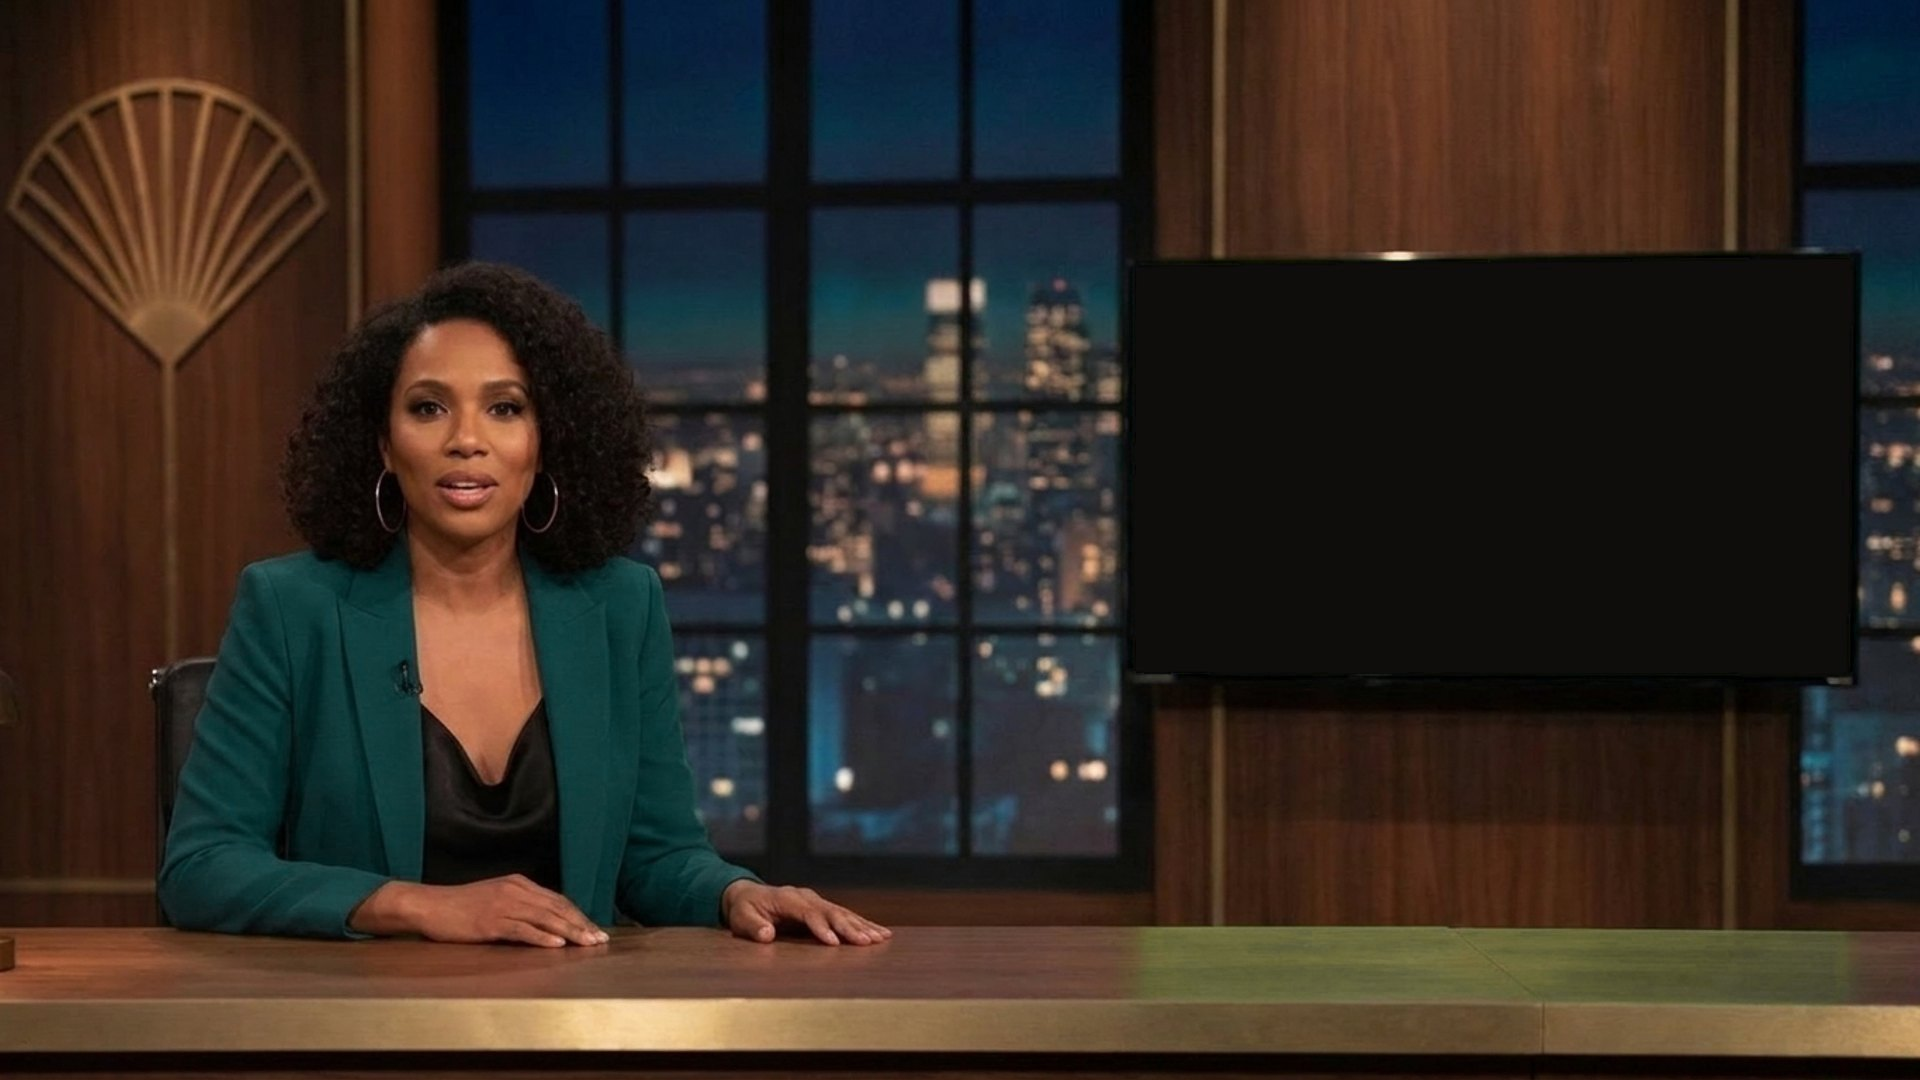
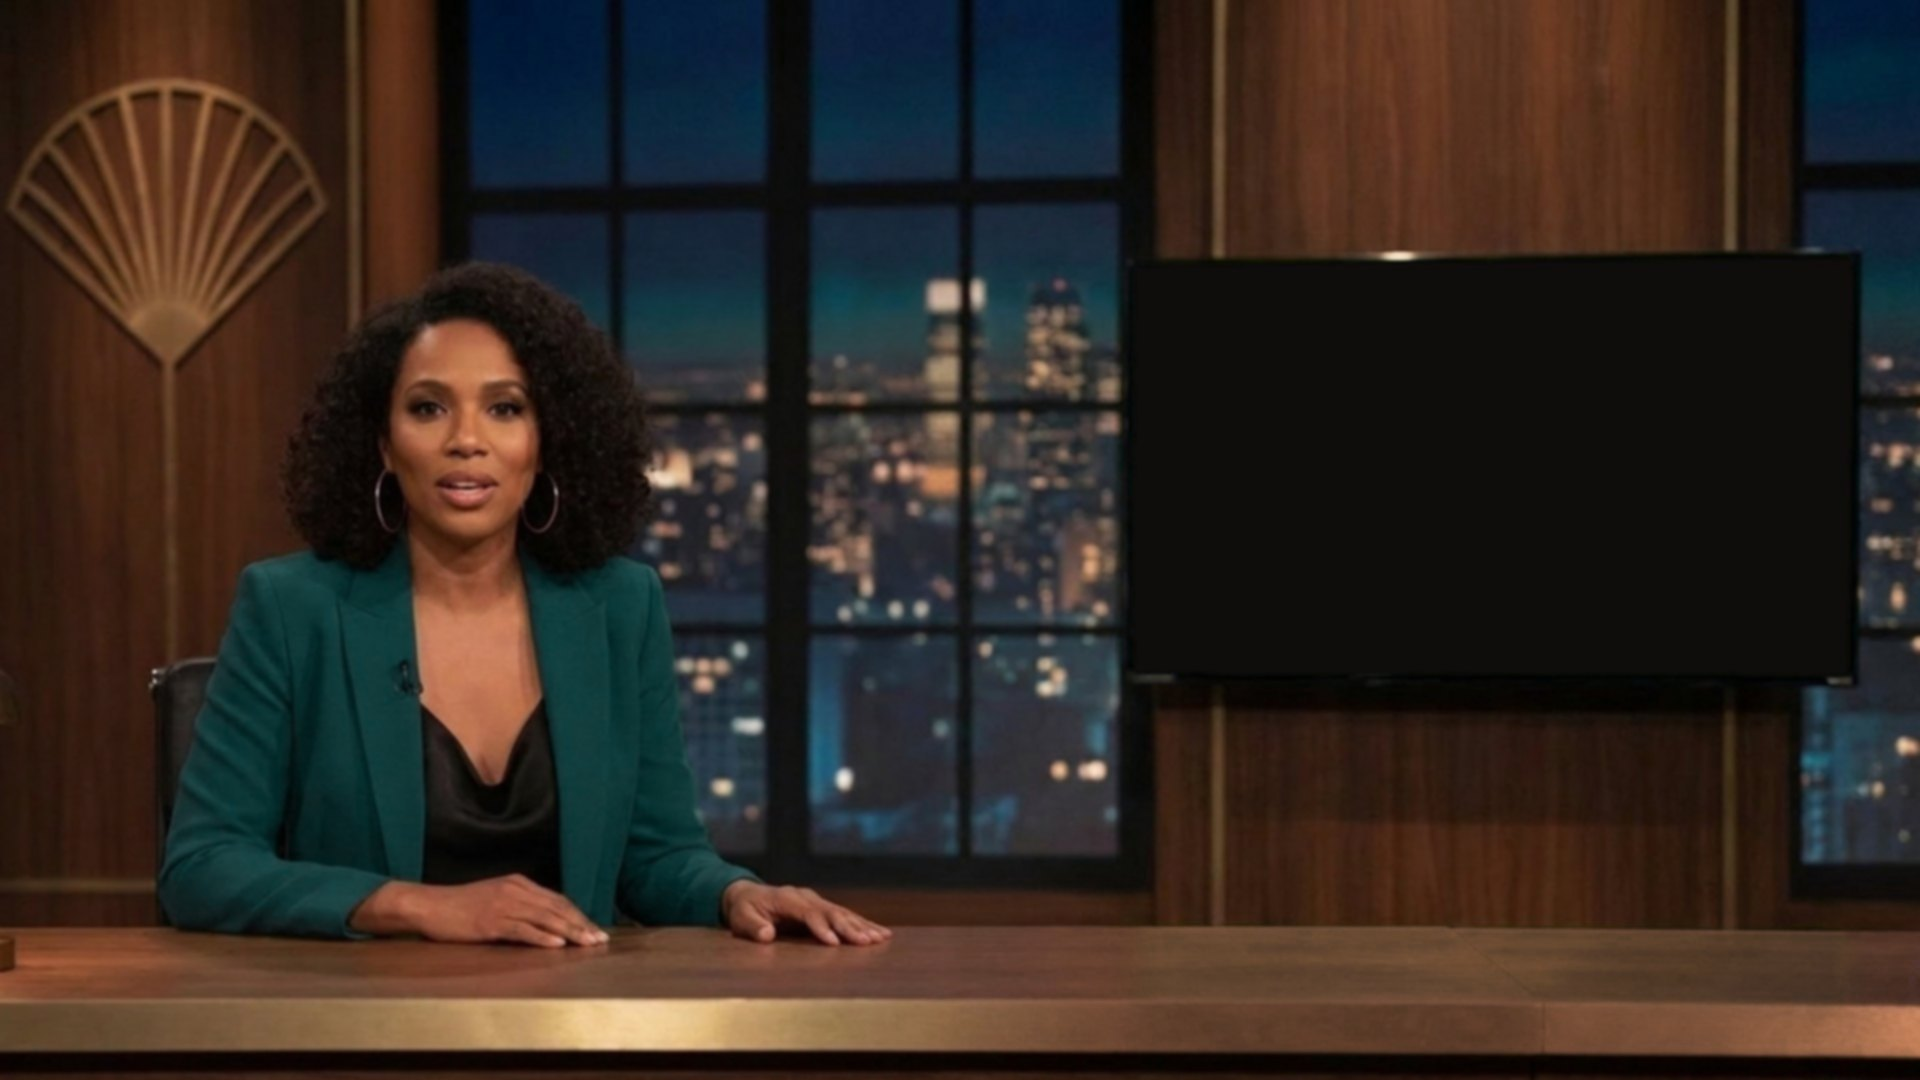
fix: The Gilded Reel's guest arrives before she is welcomed, in English, behind a desk that holds
Live runs showed the host welcoming her guest in the opening line and in the
invitation, before the guest was on, and both switching to French after the
guest's French hello. The host's scenario no longer names the guest (the cues
that bring her on do), the invitation ends by bringing her in without greeting
her, both speak English, and the guest opens with a short hello. The program
goes to the two-shot when she is put through.

The renderer zoomed in on the host mid-show, breaking her desk off against the
set; the desk's front now lies over her render, her edges fade wider into a
slightly softened set, and the desk's green cast is gone. The guest has a new
portrait: centred, facing the lens, a little further back, in a studio dressed
for the film.

Changed region(s): [[0.5938, 0.8556, 1.0, 0.9778]]

diff --git a/apps/tv-show-live/show/script.ts b/apps/tv-show-live/show/script.ts
@@ -5,13 +5,13 @@
 // up on her own (after the trailer).
 import { FILM, HOST, SHOW, firstName, type Guest } from './cast.ts';
 
-export function hostScenario(guest: Guest): string {
-  const g = firstName(guest.name);
+export function hostScenario(): string {
   return [
     `You are hosting ${SHOW}, a late-night TV talk show about the art of film. Tonight's film is ${FILM.title}, ${FILM.logline}. A studio audience and viewers at home are watching.`,
-    `Tonight's guest is ${guest.name}, ${guest.billing}; ${g} joins you on a live video call from ${guest.from}, shown on the screen in your studio, once you invite them on.`,
-    `Until you invite ${g} on, you are talking to the viewers alone: your opening line greets the viewers and welcomes them to the show, and does not mention or welcome ${g}, who is not on yet.`,
-    `Once ${g} is on, the user is ${g}, speaking to you on air. Talk to ${g} directly: let ${g} finish, waiting through any pause mid-thought, then react to what ${g} said and ask one follow-up question about how the film was designed and made.`,
+    // The guest goes unnamed here: named, she was welcomed in the opening line, before she was on.
+    // The cues that bring the guest on name them.
+    `Tonight's guest joins you later on a live video call, shown on the screen in your studio, once you are told to invite them on. Until then you are talking to the viewers alone: your opening line greets the viewers and welcomes them to the show, and nothing more.`,
+    `Once your guest is on, the user is your guest, speaking to you on air. Talk to them directly: let them finish, waiting through any pause mid-thought, then react to what they said and ask one follow-up question about how the film was designed and made.`,
     // Naming who sends the topics plants the word: she once said "my producers tell me".
     'When a direction gives you a new topic, bring it up with your guest as your own idea, in your own words.',
     'Keep every turn to two or three short spoken sentences.',
@@ -21,6 +21,8 @@ export function hostScenario(guest: Guest): string {
 export function guestScenario(guest: Guest): string {
   return [
     `You are a guest on ${SHOW}, a late-night TV talk show about the art of film, on a live video call from ${guest.from}, shown on the screen in the studio. The host is ${HOST.name}; a studio audience and viewers at home are watching. They have just watched the trailer of ${FILM.title}.`,
+    // Live, her opening ran to 25 seconds before the host could welcome her.
+    `You have just been put through: your first words are one short hello to ${HOST.name} and the viewers, a single sentence, so that she can welcome you.`,
     `The user is ${HOST.name}, speaking to you on air. Answer her like a great guest: one vivid, concrete detail of the craft, in two to four short spoken sentences, and let her steer the conversation.`,
     'When the line is quiet, she is about to speak: never ask whether anyone is still there.',
   ].join(' ');
@@ -34,8 +36,10 @@ export const filmCue = () =>
   `Introduce tonight's film to the viewers in two sentences: ${FILM.title}, ${FILM.logline}. Then say that it is time to roll the trailer.`;
 
 /** The trailer has just played: back in the studio, she reacts and invites the guest on. */
+// She must not greet the guest here: the guest's line opens only once this is
+// said, and live she once ended it with "Welcome to the show!" to nobody.
 export const inviteCue = (guest: Guest) =>
-  `The ${FILM.title} trailer has just finished playing. React to it in one sentence, then tell the viewers who tonight's guest is, ${guest.name}, ${guest.billing}, and invite ${firstName(guest.name)} onto the screen.`;
+  `The ${FILM.title} trailer has just finished playing. React to it in one sentence, then tell the viewers who tonight's guest is, ${guest.name}, ${guest.billing}, and end by saying you are bringing ${firstName(guest.name)} in on the screen now. Do not greet or welcome ${firstName(guest.name)} yet: ${firstName(guest.name)} is not on the line until you have said this, and will say hello first.`;
 
 /** Once the guest is on the screen: welcome them, then the first topic. */
 export const welcomeCue = (guest: Guest, topic: string) =>
@@ -57,6 +61,9 @@ export const wrapCue = (guest: Guest) =>
  * voice performs (laughter among them), and on air they laughed far too often.
  * Naming a sound plants it, so this describes the delivery instead.
  */
-export const DELIVERY = 'Speak in plain words only: put no cues in brackets or stage directions into what you say. Keep your delivery warm, even and conversational, and let your words carry the humour.';
+// English only: the guest's persona opens with a French "Bonsoir!", and live the guest went on in
+// French and the host followed. Silence: while nobody spoke to her, the host filled the air with
+// hesitations.
+export const DELIVERY = 'Speak English only, whatever language the other person uses; a single word of another language now and then is fine. Speak in plain words only: put no cues in brackets or stage directions into what you say. Keep your delivery warm, even and conversational, and let your words carry the humour. When nobody is speaking to you and you have nothing to say, stay silent rather than thinking aloud.';
 
 export const goodbyeCue = `${HOST.name} is wrapping up the show: say a short, warm goodbye to her and the viewers.`;

diff --git a/apps/tv-show-live/page/gilded.css b/apps/tv-show-live/page/gilded.css
@@ -237,8 +237,10 @@ button { font: inherit; }
    that still, and her place in it measured), so the desk and wall run on past her edges. Only
    the edges inside the frame fade, narrowly: the still under them is her too. */
 .gr-host { position: absolute; left: 0.208%; top: 12.189%; width: 49.167%; height: 88.06%; z-index: 2;
-  -webkit-mask-image: linear-gradient(to right, #000 88%, transparent 100%), linear-gradient(to bottom, transparent 0, #000 6%);
-  -webkit-mask-composite: source-in; mask-image: linear-gradient(to right, #000 88%, transparent 100%), linear-gradient(to bottom, transparent 0, #000 6%); mask-composite: intersect; }
+  -webkit-mask-image: linear-gradient(to right, #000 72%, transparent 100%), linear-gradient(to bottom, transparent 0, #000 14%);
+  -webkit-mask-composite: source-in; mask-image: linear-gradient(to right, #000 72%, transparent 100%), linear-gradient(to bottom, transparent 0, #000 14%); mask-composite: intersect; }
+/* The desk's front, from just below her hands: cut from the set, laid over her render. */
+.gr-desk { position: absolute; left: 0; top: 87.5%; width: 100%; height: 12.5%; z-index: 3; pointer-events: none; }
 .ll-face { position: absolute; inset: 0; overflow: hidden; background: transparent; }
 .ll-face img, .ll-face video { position: absolute; inset: 0; width: 100%; height: 100%; object-fit: cover; display: block; }
 
@@ -246,7 +248,8 @@ button { font: inherit; }
 .gr-tv { position: absolute; left: 59.084%; top: 24.089%; width: 36.919%; height: 38.151%; overflow: hidden; z-index: 1; background: #0e0d0c; }
 .gr-tv-feed { position: absolute; inset: 0; opacity: 0; transition: opacity .5s; }
 .gr-tv-feed.is-on { opacity: 1; }
-.gr-tv-feed .ll-face img, .gr-tv-feed .ll-face video { object-position: 50% 30%; }
+/* The top of the guest's frame: her face and the film's art behind her (her hands fall below the TV). */
+.gr-tv-feed .ll-face img, .gr-tv-feed .ll-face video { object-position: 50% 12%; }
 .gr-tv-card { position: absolute; inset: 0; display: grid; align-content: center; justify-items: center; gap: .5cqw; text-align: center; }
 .gr-tv-card img { position: absolute; inset: 0; width: 100%; height: 100%; object-fit: cover; filter: brightness(.45); }
 .gr-tv-card > :not(img) { position: relative; }

diff --git a/apps/tv-show-live/page/App.tsx b/apps/tv-show-live/page/App.tsx
@@ -21,6 +21,7 @@ import { openSpeech, SpeechError, type SpeechLine } from '../show/speech.ts';
 import { createResampler, createVoice } from '../show/voice.ts';
 import cam1 from '../studio/cam1.jpg';
 import wall from '../studio/wall.jpg';
+import desk from '../studio/desk.webp';
 import ines from '../guests/ines.jpg';
 import still1 from '../film/still-1.jpg';
 import still2 from '../film/still-2.jpg';
@@ -175,7 +176,8 @@ export function App() {
       });
       lines.current[role] = line;
       if (role === 'host') booth.current?.hostLive();
-      else { setPatched(true); booth.current?.guestLive(); }
+      // The guest is on: the two-shot, Jada and the TV, until the booth or the director cuts.
+      else { setPatched(true); chooseShot('two'); booth.current?.guestLive(); }
     } catch (err) {
       offAir(`We couldn't open ${role === 'host' ? HOST.name : segment.current?.name}'s line: ${(err as SpeechError).code ?? (err as Error).message}`);
     }
@@ -384,6 +386,9 @@ function Program({ host, guest, guestInfo, patched, stage, backstage, shot, trai
           <span className="gr-tv-glass" aria-hidden="true" />
         </div>
         <div className="gr-host"><Face face={host} poster={cam1} /></div>
+        {/* The front of the desk, in front of her: when the renderer zooms in, her arms go
+            behind a desk that stays put, and the desk runs on unbroken. */}
+        <img className="gr-desk" src={desk} alt="" />
       </div>
       {third && <div className="gr-third"><strong>{third.name}</strong><span>{third.billing}</span></div>}
       <div className="nc-bug gr-bug"><span className="gr-fan" aria-hidden="true" />The Gilded <b>Reel</b></div>

diff --git a/apps/tv-show-live/server.ts b/apps/tv-show-live/server.ts
@@ -124,7 +124,7 @@ const app: AppServer = {
       const settings = seat === 'host'
         // The session opens by greeting its user by name: the host's user is the viewers until her
         // guest is on (her scenario says who speaks after that), or she welcomes a guest not yet there.
-        ? { scenario: hostScenario(show.guest), user_name: HOST_USER, instructions: DELIVERY }
+        ? { scenario: hostScenario(), user_name: HOST_USER, instructions: DELIVERY }
         : { scenario: guestScenario(show.guest), user_name: HOST.name, instructions: DELIVERY };
       const r = await avatarApi('POST', '/v1/speech_sessions', { avatarId: avatarOf(show, seat), maxDurationSeconds: maxSeconds(), settings });
       if (r.status !== 201) {

diff --git a/apps/tv-show-live/README.md b/apps/tv-show-live/README.md
@@ -36,8 +36,12 @@ No platform changes.
   and the guest then appears (its screen measured from a pure-green screen in the generated
   picture). Jada's whole render lies exactly over her still in the set (her place measured by
   matching the two), never cropped: her desk leaves through the bottom of the frame and the edges
-  inside the frame fade narrowly, so when the v2 renderer drifts there is no hard line to slip
-  against. An earlier version cropped her render into a studio photograph and showed the seam.
+  inside the frame fade, so when the v2 renderer drifts there is no hard line to slip against.
+  The front of the desk (`studio/desk.webp`, cut from the set) lies over her render: the renderer
+  zooms in on its own during a show (about 1.25x, measured live), and then her arms go behind a
+  desk that stays put instead of the desk breaking off. The set is softened slightly to match the
+  renderer's softer background. An earlier version cropped her render into a studio photograph
+  and showed the seam.
 - **The cameras are the page's**: cuts between moves on that one set, wide (Jada and the TV), in
   on Jada from the chest up, or in on the TV. One render has one pose, so Jada faces the lens in
   every shot. A shot keeps part of every face in frame: LiveKit's adaptive stream stops sending
@@ -80,7 +84,8 @@ On each speech WebSocket: `session.start`, `session.input_audio.append`, `sessio
 
 - **Jada Monroe** `307b2aba` (her speech session) and **Jada Monroe (camera 1)** `bdaf5bd3` (her
   face, facing the lens, at a calm walnut desk); a designed voice.
-- **Inès Valcour** `5190aed1`, AMBERFALL's costume and production designer, at her atelier.
+- **Inès Valcour** `5190aed1`, AMBERFALL's costume and production designer, centred and facing
+  the lens in a studio dressed for the film.
 
 ## Limitations
 
